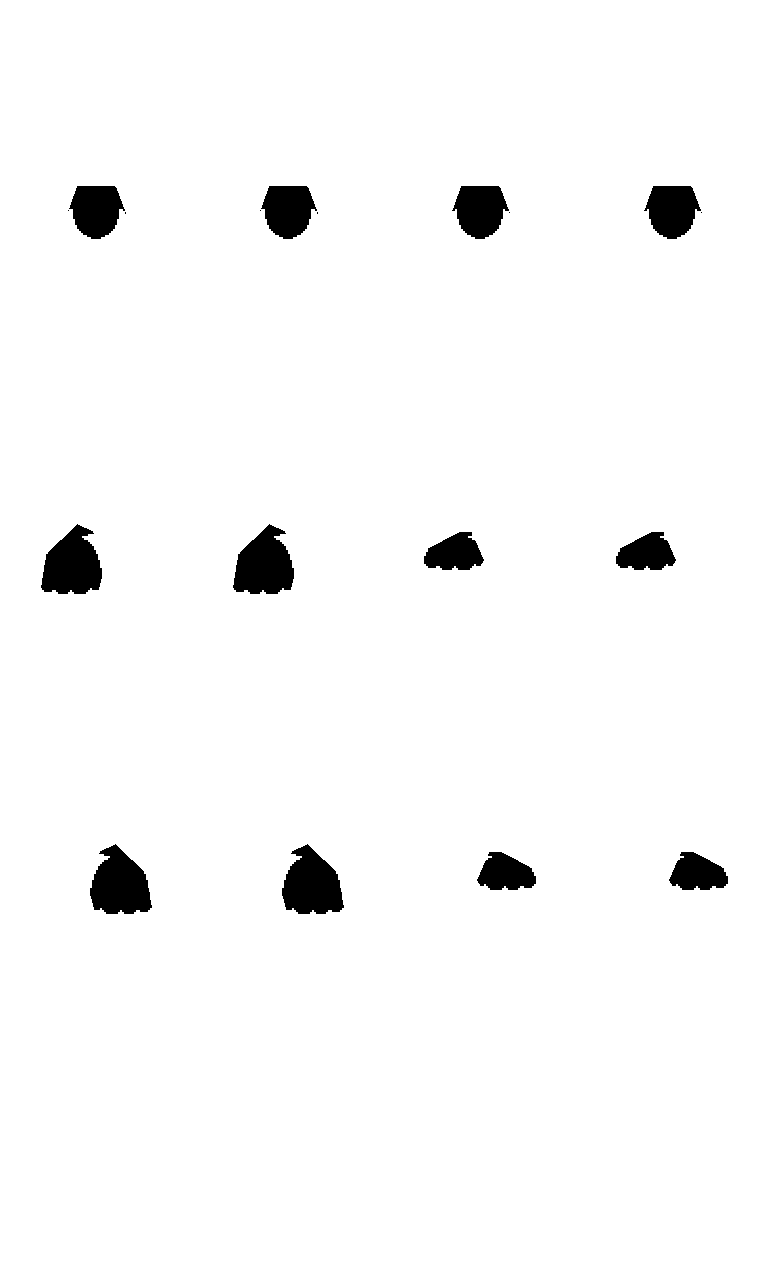
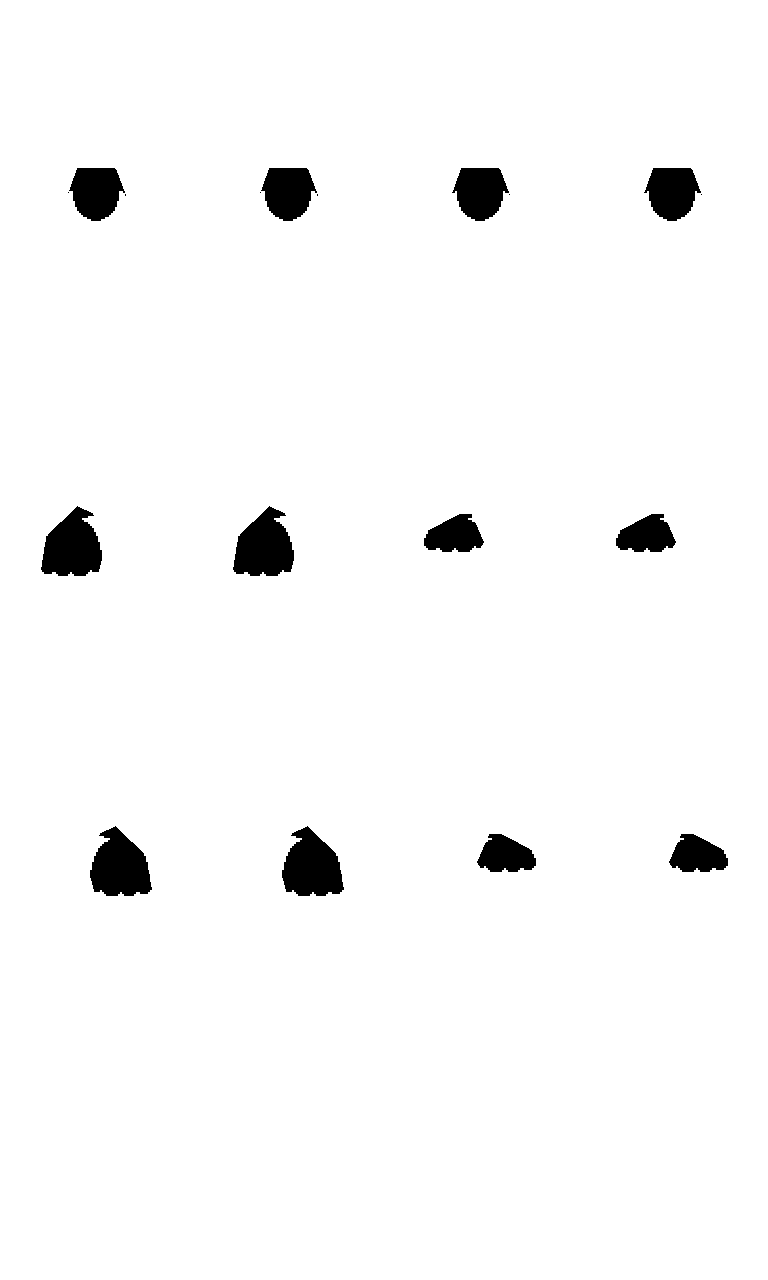
Align Kyogre face with the horizontal interaction line

diff --git a/tools/build_primal_kyogre_mount.py b/tools/build_primal_kyogre_mount.py
@@ -12,6 +12,10 @@ ART_FRAME = (192, 224)
 # The artwork stays at native scale.
 FRAME = (192, 320)
 DIRECTIONS = ('down', 'left', 'right', 'up')
+# Side-view face center was 18.5px below the occupied/interacting tile line.
+# Lift the complete rig by an integer amount, identical in every direction,
+# so the player does not jump vertically when turning.
+FACE_ANCHOR_Y = -18
 SEATS = (((88,8),)*4, ((96,-20),(96,-20),(96,-2),(96,-2)),
          ((96,-20),(96,-20),(96,-2),(96,-2)), ((88,3),)*4)
 # Original composition coordinates for the approved anatomical water treatment.
@@ -23,9 +27,8 @@ SHIFTS = (((-24,21),)*4,
 
 
 def definition(shiny=False):
-    # Keep the rider at the ordinary player origin in every direction/phase.
-    # Derive the mount placement from its authored seat, never the hull edge.
-    offsets = {d: [[0, 0] for _ in range(4)] for d in DIRECTIONS}
+    # The rider follows the same face-alignment shift as every mount layer.
+    offsets = {d: [[0, FACE_ANCHOR_Y] for _ in range(4)] for d in DIRECTIONS}
     folder = 'primal_kyogre_shiny' if shiny else 'primal_kyogre'
     return {'displayName':'Shiny Primal Kyogre' if shiny else 'Primal Kyogre', 'movementMode':'surf',
             'unlockItemId':'shiny-primal-kyogre-mount' if shiny else 'primal-kyogre-mount',
@@ -98,9 +101,9 @@ def anchor_to_player(tile, row, col):
     seat = SEATS[row][col]
     shift = SHIFTS[row][col]
     # SEATS stores the top-left of a 64px rider cell. Its center must coincide
-    # with the mount cell center, so the runtime rider offset stays zero.
+    # with the mount cell center plus the shared face-alignment correction.
     translation = (FRAME[0]//2 - (seat[0]+shift[0]+32),
-                   FRAME[1]//2 - (seat[1]+shift[1]+32))
+                   FRAME[1]//2 - (seat[1]+shift[1]+32) + FACE_ANCHOR_Y)
     result = Image.new('RGBA', FRAME)
     result.alpha_composite(tile, translation)
     assert sum(result.getchannel('A').histogram()[1:]) == sum(tile.getchannel('A').histogram()[1:]), 'Player anchoring must not clip artwork'
@@ -135,7 +138,7 @@ def build_variant(source, folder):
     icon.crop(icon.getbbox()).save(folder/'icon.png')
     for name in ['source','mount','foreground','rider_mask','icon']:
         write_texture_import(ROOT,(folder/f'{name}.png').relative_to(ROOT))
-    print(f'{folder.name}: player-anchored rig, preserved riding pose and opaque rider mask.')
+    print(f'{folder.name}: face aligned with interaction line, preserved riding pose and opaque rider mask.')
 
 
 def build():

diff --git a/assets/mounts/primal_kyogre/README.md b/assets/mounts/primal_kyogre/README.md
@@ -3,9 +3,10 @@
 Normal and shiny Kyogre use the approved water-contact treatment: the underside,
 flippers and tail fade into the map water, with contact foam and a directional
 wake while swimming. Native source scale and the riding pose are retained from
-the approved V4 rig. The rider uses the ordinary player origin in all four
-directions, with zero mount-specific rider offsets. The builder positions every
-mount layer around that fixed player anchor using the authored seat coordinates.
+the approved V4 rig. The complete rig sits 18 native pixels above the ordinary
+player anchor, putting the center of Kyogre's side-view face on the occupied
+tile's horizontal interaction line (within 0.5px in both side views/all phases).
+The same correction in every direction keeps the rider steady when turning.
 
 `source.png` remains the unmodified supplied art. Rebuild both color variants
 with `python3 tools/build_primal_kyogre_mount.py`. The water depth/palette and
@@ -29,11 +30,11 @@ player appearance parts. Dismounting or selecting another mount clears it.
 Kyogre uses this contact/wake instead of generic circular Surf-step ripples;
 Lapras's ripples and all fishing splashes keep their existing behavior.
 
-The player's ordinary position is the alignment reference, not the nose, fin or
-foam edge. Compared with the earlier hull-aligned version, the complete rig moves
-51px down in front, 31px at either side and 56px behind. The source animation's
-18px torso shift is still compensated, keeping the rider stable while swimming.
-Fishing retains its existing pose correction relative to the same saddle.
+The authored seat defines the riding geometry. `FACE_ANCHOR_Y` then translates
+the mount, foreground, rider mask, contact foam, wake and rider together, without
+changing the actual movement/collision/interaction position. The earlier player-
+aligned rig placed the side face 18.5px below the interaction line; the face is now
+the visual reference. Fishing keeps its existing saddle-relative pose correction.
 
 Runtime captures (both player models, idle/swimming/fishing, all directions):
 

diff --git a/CHANGELOG.md b/CHANGELOG.md
@@ -2,7 +2,7 @@
 
 ## Unreleased
 
-- Anchor normal and shiny Kyogre to the player's ordinary position in every direction, moving the complete mount and water effect with the rider.
+- Align normal and shiny Kyogre's face with the occupied tile's interaction line, keeping its rider and water effects together.
 
 - Refresh Viridian City’s imported visual from the current artist TMX while retaining its flower, water and canopy animations.
 
